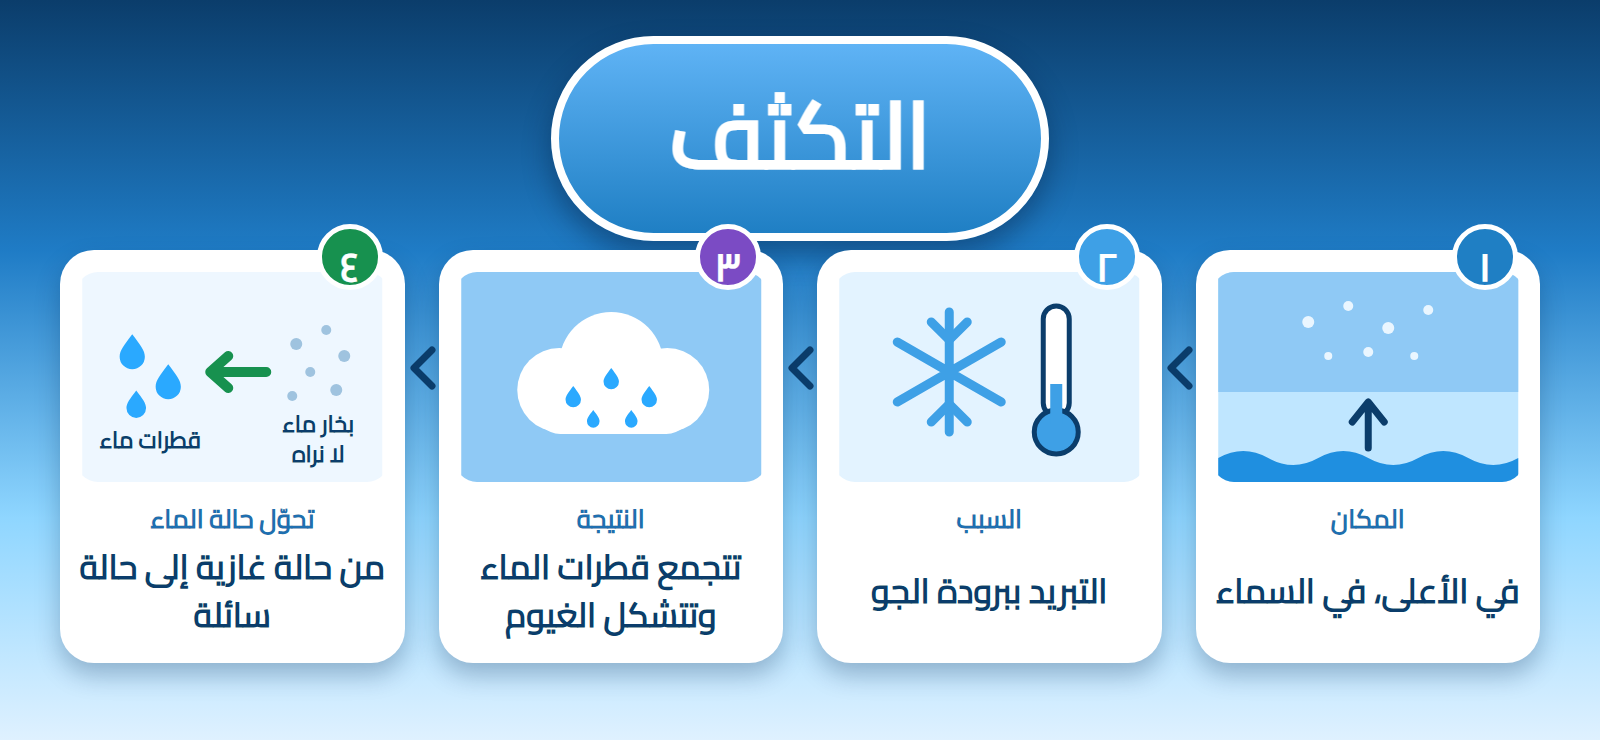
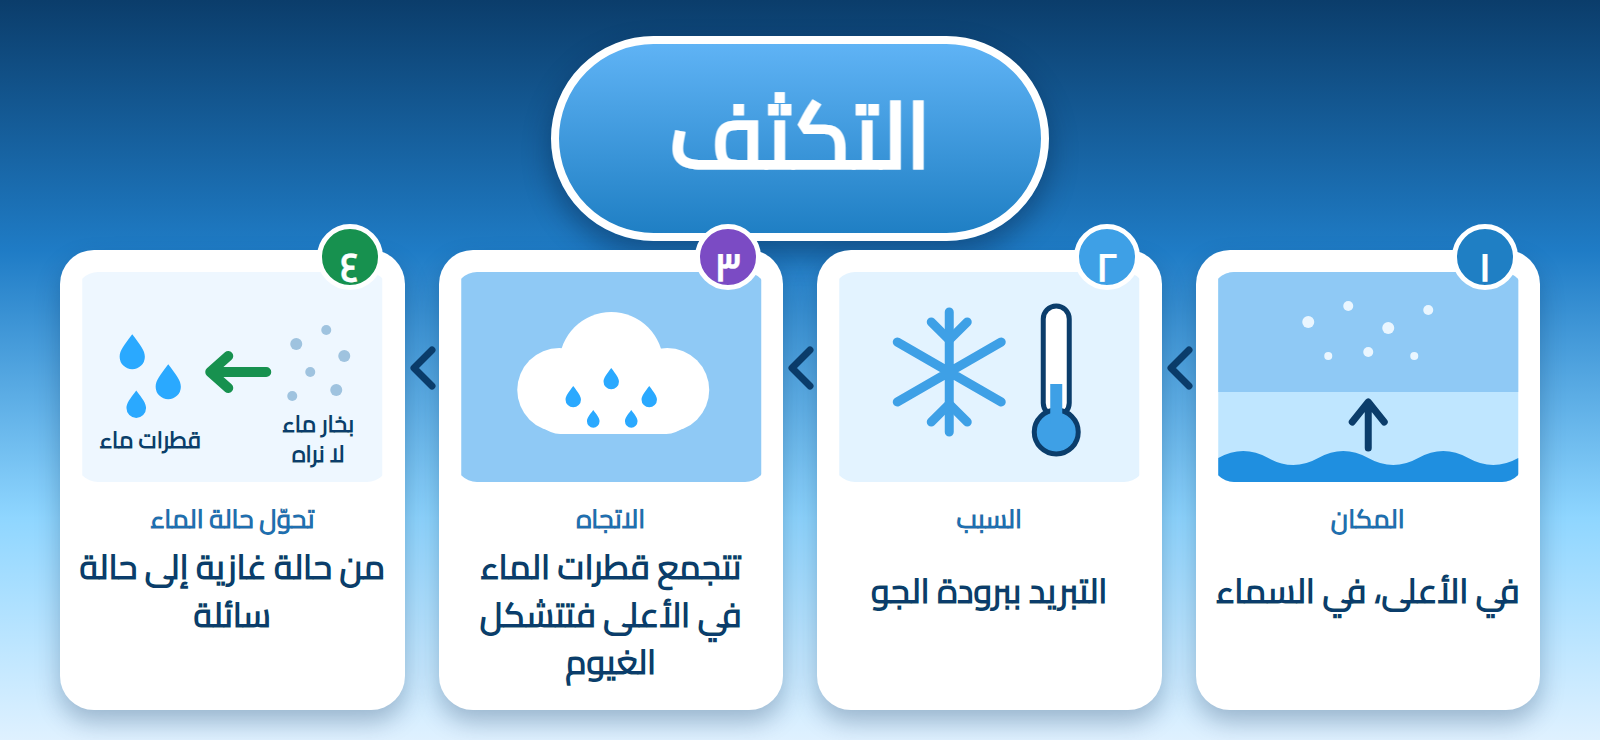
Align practice sheet 2 and the condensation card with the four criteria
Question 3 now asks what the droplets do after condensation, and the card
shows direction instead of result, matching the new objective (place,
direction, cause, change of state).

Changed region(s): [[0.0312, 0.8081, 0.9688, 0.9946], [0.3438, 0.6838, 0.4062, 0.7149]]

diff --git a/condensation-card/index.html b/condensation-card/index.html
@@ -10,6 +10,6 @@
 </style>
 </head>
 <body>
-  <img src="condensation.png" alt="بطاقة التكثف: في الأعلى في السماء، التبريد ببرودة الجو، تتجمع قطرات الماء وتتشكل الغيوم، من حالة غازية إلى حالة سائلة">
+  <img src="condensation.png?v=2" alt="بطاقة التكثف: في الأعلى في السماء، التبريد ببرودة الجو، تتجمع قطرات الماء وتتشكل الغيوم، من حالة غازية إلى حالة سائلة">
 </body>
 </html>

diff --git a/practice-answers/index.html b/practice-answers/index.html
@@ -10,6 +10,6 @@
 </style>
 </head>
 <body>
-  <img src="practice2-answers.png" alt="نموذج إجابة النشاط التدريبي الفردي: رحلة قطّورة، التكثف">
+  <img src="practice2-answers.png?v=2" alt="نموذج إجابة النشاط التدريبي الفردي: رحلة قطّورة، التكثف">
 </body>
 </html>

diff --git a/practice/index.html b/practice/index.html
@@ -10,6 +10,6 @@
 </style>
 </head>
 <body>
-  <img src="practice2.png" alt="ورقة النشاط التدريبي الفردي: رحلة قطّورة، التكثف">
+  <img src="practice2.png?v=2" alt="ورقة النشاط التدريبي الفردي: رحلة قطّورة، التكثف">
 </body>
 </html>
